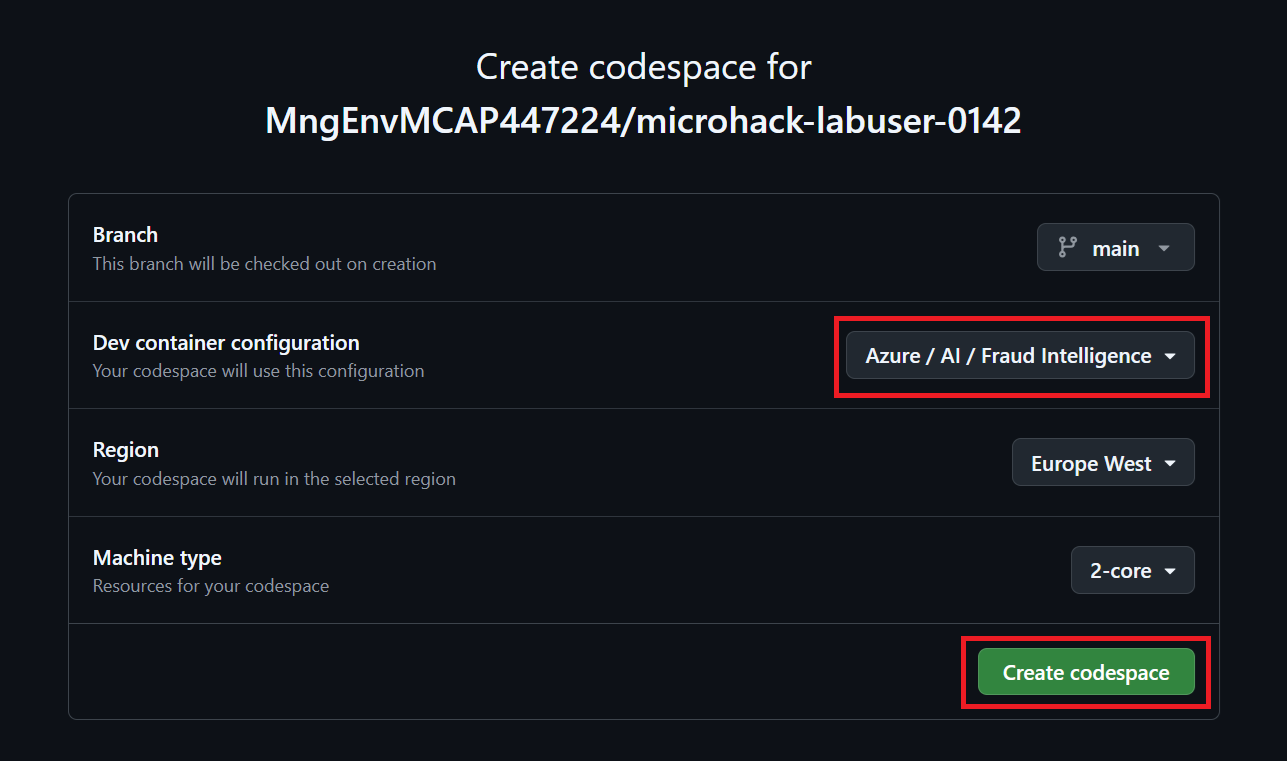
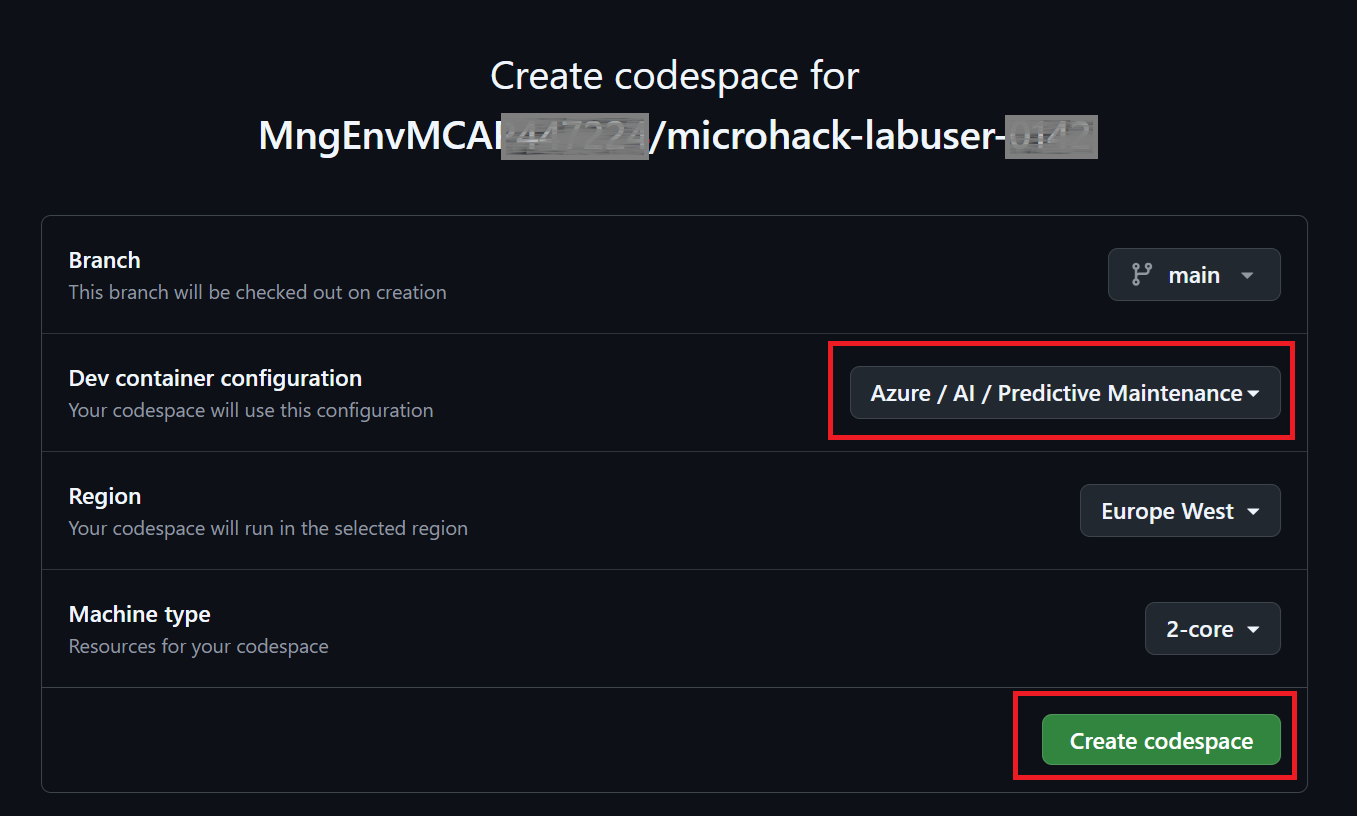
update challenge-0 guidance

diff --git a/03-Azure/01-04-AI/08_Predictive_Maintenance/challenges/challenge-01.md b/03-Azure/01-04-AI/08_Predictive_Maintenance/challenges/challenge-01.md
@@ -118,11 +118,13 @@ From the repository page, select **Code**, then open the **Codespaces** tab. Sel
 
 <img src="./images/challenge-01-new-codespace-with-options.png" alt="New Codespace" width="60%">
 
-For Dev container configuration, select **Azure / AI / Predictive Maintenance*, then select **Create codespace**:
+For Dev container configuration, select **Azure / AI / Predictive Maintenance**, then select **Create codespace**:
+
 <img src="./images/challenge-01-select-devcontainer.png" alt="Select Dev Container" width="60%">
 
-GitHub opens the Codespace in a new browser tab. Wait for the container setup to finish, then confirm that the repository files are visible in the Explorer and that the integrated terminal opens without errors.
+Wait for the container setup to finish, then select the **Trust folders & Continue** button and confirm that the repository files are visible in the Explorer and that the integrated terminal opens without errors.
 
+<img src="./images/challenge-01-codespace-welccome.png" alt="Codespace welcome" width="60%">
 
 Open a terminal in the Codespace and verify that the required tools are installed:
 
@@ -131,14 +133,12 @@ az --version
 dotnet --version
 ```
 
-Install the pinned Python dependencies and activate the environment:
+The pinned Python dependencies were installed automatically when the Codespace was created. Verify that the virtual environment is active:
 
 ```bash
-uv sync --frozen
-source .venv/bin/activate
+which python   # should point to .../.venv/bin/python
 ```
-
-Sign in to Azure from the Codespace terminal with the assigned lab account:
+Sign in to Azure from the Codespace terminal follow the link shown to authenticate with a web browser and the device code using the assigned lab account:
 
 ```bash
 az login --use-device-code
@@ -146,10 +146,15 @@ az login --use-device-code
 
 ### 4. Retrieve environment configuration
 
-From the repository root, run the setup script with the resource group name provided in your Hackbox:
+First, define an environment variable with your Resource Group name provided in Hackbox:
+
+# init RG with your Resource Group name provided in Hackbox
+rg=<your-resource-group-name>
+
+From the repository root, run the setup script with the resource group name provided in your Hackbox under **Resource Group Name**:
 
 ```bash
-bash labautomation/get-keys.sh --resource-group "<your-resource-group-name>"
+labautomation/get-keys.sh --resource-group "<your-resource-group-name>"
 ```
 
 The script locates your deployed lab resources and creates a local `.env` file. It retrieves the Foundry project endpoint, Cosmos DB connection details, Storage account connection string, and Azure AI Search key and endpoint required by the remaining challenges. The file is excluded from Git and its secret values are not displayed.
